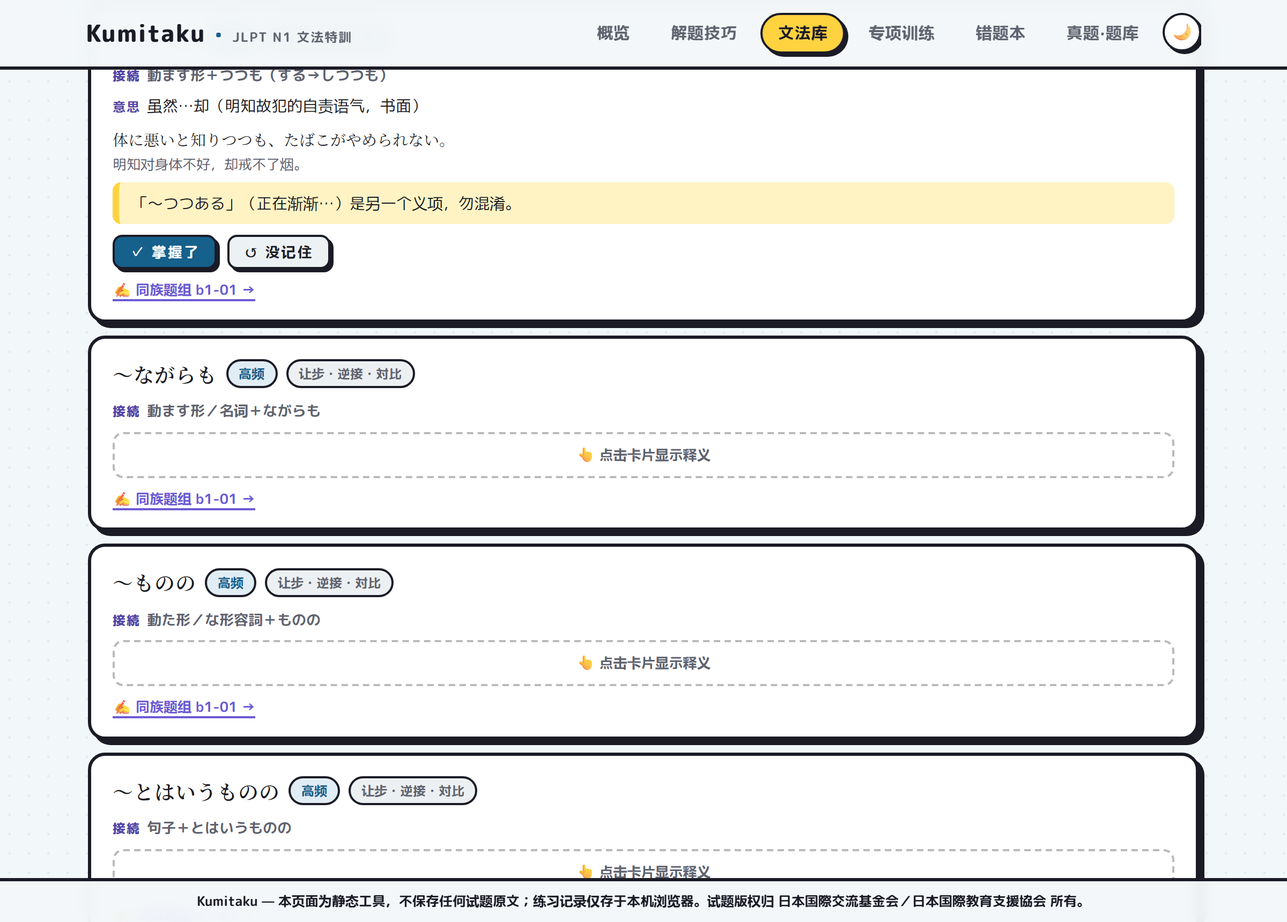
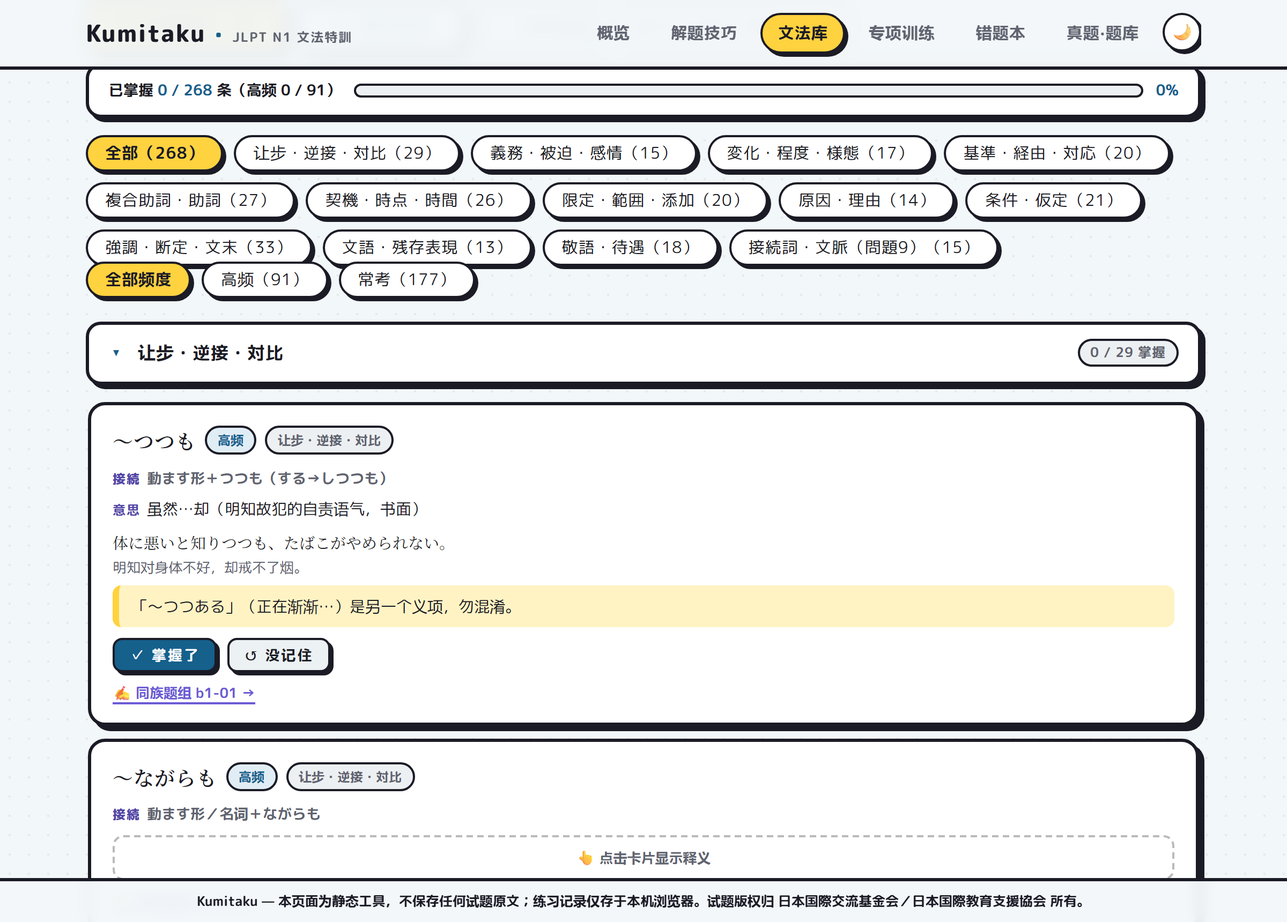
feat: 文法库扩充至 268 条——新增複合助詞・助詞（において/すら/をもって等×27）与文語残存表現（まじき/たるもの/べからず等×13）两个分类，各既有分类补全 N2 复考高频项（+63）；三层口径：N1 文型＋文語残存＋複合助詞・N2 复考高频，高频 91 条

Changed region(s): [[0.0625, 0.0616, 0.9375, 0.9244], [0.4375, 0.8936, 0.5625, 0.9552]]

diff --git a/js/bunkei.js b/js/bunkei.js
@@ -172,5 +172,108 @@ window.BUNKEI = [
 {"id":"w05","p":"一方／これに対して","cat":"bunmyaku","freq":0,"conn":"接続詞（対比）","mean":"另一方面（統合理解关键）","ex":"A案は費用が安い。一方、B案は工期が短い。","exzh":"A 方案费用低。相对地，B 方案工期短。"},
 {"id":"w06","p":"ただし／もっとも","cat":"bunmyaku","freq":0,"conn":"接続詞（附加限制）","mean":"但是…（但书、例外）","ex":"図書館は誰でも利用できる。ただし、貸出は会員に限る。","exzh":"图书馆人人可用。但外借仅限会员。"},
 {"id":"w07","p":"たしかに〜しかし","cat":"bunmyaku","freq":0,"conn":"接続詞（让步反驳）","mean":"诚然…但是（固定节奏）","ex":"たしかに彼の方法は速い。しかし、正確さでは劣る。","exzh":"诚然他的方法快。但在准确性上略逊。"},
-{"id":"w08","p":"むしろ","cat":"bunmyaku","freq":0,"conn":"副词（选択倾向）","mean":"宁可；倒不如说","ex":"彼は政治家というより、むしろ実業家だ。","exzh":"与其说他是政治家，不如说是实业家。"}
+{"id":"w08","p":"むしろ","cat":"bunmyaku","freq":0,"conn":"副词（选択倾向）","mean":"宁可；倒不如说","ex":"彼は政治家というより、むしろ実業家だ。","exzh":"与其说他是政治家，不如说是实业家。"},
+{"id":"fk01","p":"〜において(も)","cat":"fukugou","freq":1,"conn":"名词＋において","mean":"在…（场所・场合・领域，书面）","ex":"式典は東京都美術館において行われた。","exzh":"典礼在东京都美术馆举行。"},
+{"id":"fk02","p":"〜における","cat":"fukugou","freq":1,"conn":"名词＋における＋名词","mean":"在…的（书面定语）","ex":"会社における彼の評価はきわめて高い。","exzh":"他在公司里的评价极高。"},
+{"id":"fk03","p":"〜すら","cat":"fukugou","freq":1,"conn":"名词＋すら","mean":"连…都（书面，多与否定呼应）","ex":"忙しくて、食事をする時間すらなかった。","exzh":"忙得连吃饭的时间都没有。","note":"「さえ」口语兼用，「すら」更书面且多带消极语感。"},
+{"id":"fk04","p":"〜たりとも","cat":"fukugou","freq":1,"conn":"名词＋たりとも＋否定","mean":"一天（一秒）也不…","ex":"一日たりとも休んだ日はなかった。","exzh":"没有一天休息过。"},
+{"id":"fk05","p":"〜だに","cat":"fukugou","freq":0,"conn":"名词＋だに＋否定","mean":"连…都不","ex":"夢にだに思わぬ出来事だった。","exzh":"是连做梦都想不到的事。"},
+{"id":"fk06","p":"〜をもって","cat":"fukugou","freq":1,"conn":"名词＋をもって","mean":"以…（手段）；自…（时限，公告常用）","ex":"本日をもって、営業を終了いたします。","exzh":"本店自今日起停止营业。","note":"「〜をもってしても」＝即便凭借…也。"},
+{"id":"fk07","p":"〜をもってしても","cat":"fukugou","freq":0,"conn":"名词＋をもってしても","mean":"即便凭借…也（不）","ex":"彼の実力をもってしても、一人では解決できなかった。","exzh":"即便凭他的实力，一个人也解决不了。"},
+{"id":"fk08","p":"〜ところを","cat":"fukugou","freq":0,"conn":"名词／動た形＋ところを","mean":"正当…之际（致谢・免于）","ex":"お忙しいところをお集まりいただき、感謝いたします。","exzh":"感谢各位百忙之中拨冗出席。"},
+{"id":"fk09","p":"〜あっての","cat":"fukugou","freq":1,"conn":"名词１＋あっての＋名词２","mean":"有…才有…","ex":"お客あっての商売だ。","exzh":"有顾客才有生意。"},
+{"id":"fk10","p":"〜もかまわず","cat":"fukugou","freq":0,"conn":"名词＋もかまわず","mean":"不顾…","ex":"人目もかまわず、駅のベンチで寝てしまった。","exzh":"也不顾旁人目光，就在车站长椅上睡着了。"},
+{"id":"fk11","p":"〜にあって","cat":"fukugou","freq":0,"conn":"名词＋にあって","mean":"处于…（书面）","ex":"この不況下にあって、利益を伸ばした。","exzh":"身处这样的不景气之中，利润仍实现了增长。"},
+{"id":"fk12","p":"〜を顧みず","cat":"fukugou","freq":0,"conn":"名词＋を顧みず","mean":"不顾…","ex":"危険を顧みず、火の中へ飛び込んだ。","exzh":"不顾危险冲进了火海。"},
+{"id":"fk13","p":"〜に則って","cat":"fukugou","freq":0,"conn":"名词＋に則って","mean":"依照（惯例・先例）","ex":"慣例に則って、式を執り行った。","exzh":"依照惯例举行了仪式。"},
+{"id":"fk14","p":"〜に鑑み","cat":"fukugou","freq":0,"conn":"名词＋に鑑み(て)","mean":"鉴于…（公文语）","ex":"近況に鑑み、規則を一部改正する。","exzh":"鉴于近期情况，对规章作部分修订。"},
+{"id":"fk15","p":"〜いかんにかかわらず","cat":"fukugou","freq":0,"conn":"名词＋のいかんにかかわらず","mean":"不论…与否（公文语）","ex":"理由のいかんにかかわらず、遅刻は認められない。","exzh":"无论理由如何，迟到均不予认可。"},
+{"id":"fk16","p":"〜を皮切りに","cat":"fukugou","freq":1,"conn":"名词＋を皮切りに(として)","mean":"以…为开端","ex":"一枚のスケッチを皮切りに、彼は画家への道を歩んだ。","exzh":"以一幅素描为开端，他走上了画家之路。"},
+{"id":"fk17","p":"〜を経て","cat":"fukugou","freq":0,"conn":"名词＋を経て","mean":"经过…","ex":"幾多の困難を経て、ついに大橋は完成した。","exzh":"历经重重困难，大桥终于建成。"},
+{"id":"fk18","p":"〜にとって","cat":"fukugou","freq":0,"conn":"名词＋にとって","mean":"对…而言","ex":"彼にとって、この家は思い出の詰まった場所だ。","exzh":"对他而言，这个家装满了回忆。"},
+{"id":"fk19","p":"〜について","cat":"fukugou","freq":0,"conn":"名词＋について","mean":"关于…","ex":"この件について、ご意見をお聞かせください。","exzh":"关于此事，请谈谈您的意见。"},
+{"id":"fk20","p":"〜に関して","cat":"fukugou","freq":0,"conn":"名词＋に関して","mean":"有关…","ex":"新製品に関して、問い合わせが殺到している。","exzh":"有关新产品的咨询蜂拥而至。","note":"与「〜について」近义，更书面。"},
+{"id":"fk21","p":"〜にかわって","cat":"fukugou","freq":0,"conn":"名词＋にかわって","mean":"代替…；代表…","ex":"退職した部長にかわって、私が担当いたします。","exzh":"由我接替退休的部长负责此项工作。"},
+{"id":"fk22","p":"〜によると／〜によれば","cat":"fukugou","freq":0,"conn":"名词＋によると(よれば)","mean":"据…","ex":"天気予報によると、明日は晴れるそうだ。","exzh":"据天气预报，明天晴。"},
+{"id":"fk23","p":"〜のもとで(に)","cat":"fukugou","freq":0,"conn":"名词＋のもとで(に)","mean":"在…之下","ex":"先生のご指導のもとで、三年間研究を続けた。","exzh":"在老师指导下持续研究了三年。"},
+{"id":"fk24","p":"〜として(は)","cat":"fukugou","freq":0,"conn":"名词＋として(は)","mean":"作为…；就…立场而言","ex":"私としては、反対の立場を貫きたい。","exzh":"就我个人而言，想坚持反对立场。"},
+{"id":"fk25","p":"〜と相まって","cat":"fukugou","freq":0,"conn":"名词＋と(が)相まって","mean":"与…相辅相成（效果加剧）","ex":"彼の才能と幸運とが相まって、大成功を収めた。","exzh":"才能与幸运相辅相成，造就了他的巨大成功。"},
+{"id":"fk26","p":"〜に関わる","cat":"fukugou","freq":0,"conn":"名词＋に関わる","mean":"关系到…","ex":"これは会社の存続に関わる問題だ。","exzh":"这是关系到公司存亡的问题。"},
+{"id":"fk27","p":"〜を中心に","cat":"fukugou","freq":0,"conn":"名词＋を中心に(として)","mean":"以…为中心","ex":"彼を中心に、チームをまとめ上げた。","exzh":"以他为核心把队伍凝聚了起来。"},
+{"id":"bg01","p":"〜まじき","cat":"bungo","freq":1,"conn":"動辞書形＋まじき（ある→あるまじき）","mean":"与身份不相称的…（强烈谴责）","ex":"公務員が賄賂を受け取るなど、あるまじき行為だ。","exzh":"公务员收受贿赂，简直是不齿之行。"},
+{"id":"bg02","p":"〜たるもの","cat":"bungo","freq":1,"conn":"名词＋たるもの","mean":"身为…（就该…）","ex":"選手たるもの、審判の判定に口を出すべきではない。","exzh":"身为运动员，就不该对裁判的判罚说三道四。"},
+{"id":"bg03","p":"〜といえども","cat":"bungo","freq":1,"conn":"名词／句子＋といえども","mean":"即便是…也","ex":"名医といえども、死を防ぐことはできない。","exzh":"即便是名医，也无法阻止死亡。"},
+{"id":"bg04","p":"〜んがため(に)","cat":"bungo","freq":1,"conn":"動未然形＋んがため（する→せんがため）","mean":"为了…（文语目的）","ex":"優勝せんがため、日々の練習に励んできた。","exzh":"为了夺冠，一直刻苦训练。"},
+{"id":"bg05","p":"〜べし","cat":"bungo","freq":0,"conn":"動辞書形＋べし","mean":"应当…（文语）","ex":"若いうちは、多くを学ぶべし。","exzh":"趁年轻，应当多学。"},
+{"id":"bg06","p":"〜べからず","cat":"bungo","freq":0,"conn":"動辞書形＋べからず","mean":"不可…（告示文语）","ex":"芝生に立ち入るべからず。","exzh":"禁止踏入草坪。"},
+{"id":"bg07","p":"〜べく","cat":"bungo","freq":0,"conn":"動辞書形＋べく（する→すべく）","mean":"为了…（文语目的）","ex":"目標を達成すべく、全員で知恵を絞っている。","exzh":"为达成目标，全员集思广益。"},
+{"id":"bg08","p":"〜ごとく／〜ごとし","cat":"bungo","freq":0,"conn":"名词＋のごとく（ごとし）","mean":"如…一般（文语比況）","ex":"光陰矢のごとし。","exzh":"光阴似箭。"},
+{"id":"bg09","p":"〜ぬ（否定）","cat":"bungo","freq":0,"conn":"動ない形-ぬ（知らぬ・行かぬ）","mean":"不…（文语否定，残存于惯用语）","ex":"彼は知らぬ顔で通り過ぎていった。","exzh":"他装作不知道地走了过去。"},
+{"id":"bg10","p":"〜ざる（否定連体）","cat":"bungo","freq":0,"conn":"動ない形-ざる＋名词","mean":"不…的（文语定语）","ex":"それは決して許されざる行為である。","exzh":"那是决不可原谅的行为。","note":"「やむを得ざる事情」「許されざる」等惯用；「〜ざるを得ない」亦同系。"},
+{"id":"bg11","p":"〜つつ（並行）","cat":"bungo","freq":0,"conn":"動ます形＋つつ","mean":"一边…一边（文语）","ex":"彼は茶を飲みつつ、相棒の話に耳を傾けた。","exzh":"他一边喝茶一边听搭档说话。","note":"逆接义为「〜つつも」（见让步・逆接・対比分类）。"},
+{"id":"bg12","p":"〜かたがた","cat":"bungo","freq":0,"conn":"動ます形＋かたがた","mean":"顺便（兼作，郑重）","ex":"ご挨拶かたがた、新居のご紹介に伺いました。","exzh":"顺致问候，特来介绍新居。"},
+{"id":"bg13","p":"〜ながら(の)","cat":"bungo","freq":0,"conn":"名词＋ながらの","mean":"保持…原状","ex":"昔ながらの製法で味噌をつくる。","exzh":"沿用古法酿造味噌。"},
+{"id":"j22","p":"〜ともなると／〜ともなれば","cat":"joshuku","freq":1,"conn":"名词＋ともなると","mean":"一到…（程度自然伴随）","ex":"部長ともなると、そう簡単には辞められない。","exzh":"当到部长这个级别，就不是想辞就能辞的了。"},
+{"id":"j23","p":"〜くせに","cat":"joshuku","freq":0,"conn":"名词の／動た形＋くせに","mean":"明明…却（指责）","ex":"知っているくせに、知らないふりをする。","exzh":"明明知道却装作不知道。"},
+{"id":"j24","p":"〜にしろ／〜にせよ","cat":"joshuku","freq":1,"conn":"名词／句子＋にしろ(にせよ)","mean":"即便…也；无论…都","ex":"賛成するにせよ、反対するにせよ、まず内容を確認したい。","exzh":"无论赞成还是反对，都想先确认内容。","note":"「〜にしろ〜にしろ」并列＝无论 A 还是 B。"},
+{"id":"j25","p":"〜につけ〜につけ","cat":"joshuku","freq":0,"conn":"名词＋につけ…につけ","mean":"无论…还是…（都）","ex":"良いことにつけ悪いことにつけ、母のことを思い出す。","exzh":"无论顺境逆境，都会想起母亲。"},
+{"id":"j26","p":"〜といい〜といい","cat":"joshuku","freq":0,"conn":"名词＋といい…といい","mean":"无论…还是…","ex":"見た目といい味といい、文句のつけようがない。","exzh":"无论卖相还是味道，都无可挑剔。"},
+{"id":"j27","p":"〜どころの騒ぎではない","cat":"joshuku","freq":0,"conn":"名词＋どころの騒ぎではない","mean":"远非…的状态（程度严重）","ex":"この寒さでは、花見どころの騒ぎではない。","exzh":"这么冷的天，哪还谈得上赏花。"},
+{"id":"j28","p":"〜も手伝って","cat":"joshuku","freq":0,"conn":"名词＋も手伝って","mean":"加上…的影响","ex":"快晴も手伝って、野外コンサートは大盛況だった。","exzh":"加上天公作美，户外音乐会盛况空前。"},
+{"id":"j29","p":"〜といっても","cat":"joshuku","freq":0,"conn":"句子＋といっても","mean":"虽说…（程度大打折扣）","ex":"日本語ができるといっても、挨拶程度だ。","exzh":"虽说会日语，也就会个寒暄。"},
+{"id":"k14","p":"〜に伴って","cat":"kijun","freq":0,"conn":"名词／動辞書形＋に伴って","mean":"随着…；伴随…","ex":"経済成長に伴って、生活水準も上がった。","exzh":"随着经济增长，生活水平也提高了。"},
+{"id":"k15","p":"〜につれて","cat":"kijun","freq":0,"conn":"動辞書形／名词＋につれて","mean":"随着（自然联动）","ex":"時間がたつにつれて、悲しみは薄らいでいった。","exzh":"随着时间流逝，悲伤渐渐淡去。"},
+{"id":"k16","p":"〜にしたがって","cat":"kijun","freq":0,"conn":"動辞書形／名词＋にしたがって","mean":"随着；遵照","ex":"高くなるにしたがって、気圧は下がる。","exzh":"海拔越高，气压越低。","note":"「指示にしたがって」＝遵从（跟随）义。"},
+{"id":"k17","p":"〜とともに","cat":"kijun","freq":0,"conn":"名词／動辞書形＋とともに","mean":"与…同时；随着…","ex":"年をとるとともに、体力が落ちてきた。","exzh":"随着年龄增长，体力也下降了。"},
+{"id":"k18","p":"〜と同時に","cat":"kijun","freq":0,"conn":"動辞書形＋と同時に","mean":"…的同时","ex":"ドアが開くと同時に、観客がなだれ込んだ。","exzh":"门一开，观众蜂拥而入。"},
+{"id":"k19","p":"〜に比べて","cat":"kijun","freq":0,"conn":"名词＋に比べて","mean":"与…相比","ex":"都会に比べて、地方は物価が安い。","exzh":"与大城市相比，地方物价便宜。"},
+{"id":"k20","p":"〜に加えて","cat":"kijun","freq":0,"conn":"名词＋に加えて","mean":"加之…","ex":"経験に加えて語学力もある彼が、最適任だ。","exzh":"他除了经验还有语言能力，是最佳人选。"},
+{"id":"t20","p":"〜うちに","cat":"keiki","freq":0,"conn":"名词の／動辞書形＋うちに","mean":"趁着…；在…期间","ex":"熱いうちに召し上がってください。","exzh":"请趁热吃。"},
+{"id":"t21","p":"〜たびに","cat":"keiki","freq":0,"conn":"動辞書形／た形＋たびに","mean":"每当…就","ex":"この曲を聞くたびに、学生時代を思い出す。","exzh":"每当听到这首歌，就会想起学生时代。"},
+{"id":"t22","p":"〜てからというもの","cat":"keiki","freq":1,"conn":"動て形＋からというもの","mean":"自从…之后（一直）","ex":"彼は退職してからというもの、毎朝釣りに出かけている。","exzh":"自从退休后，他每天早上都去钓鱼。"},
+{"id":"t23","p":"〜に先立って","cat":"keiki","freq":0,"conn":"名词／動辞書形＋に先立って","mean":"在…之前","ex":"公演に先立って、記者発表が行われた。","exzh":"演出之前举行了记者会。"},
+{"id":"t24","p":"〜という次第だ","cat":"keiki","freq":0,"conn":"句子＋という次第だ","mean":"情况就是这样（说明缘由收尾）","ex":"祖母が倒れた、という次第で、本日は帰省しております。","exzh":"情况是祖母病倒了，所以我今天回乡了。"},
+{"id":"t25","p":"〜矢先に","cat":"keiki","freq":0,"conn":"動た形＋矢先に","mean":"正要…时","ex":"出かけようとした矢先に、電話が鳴った。","exzh":"正要出门时，电话响了。"},
+{"id":"t26","p":"〜っきり","cat":"keiki","freq":0,"conn":"動た形／名词＋っきり","mean":"自…之后（再无）；只…","ex":"彼女とは別れたきり、一度も会っていない。","exzh":"和她分开之后就再没见过。"},
+{"id":"x19","p":"〜はともあれ","cat":"gentei","freq":0,"conn":"名词＋はともあれ","mean":"无论如何；姑且不论","ex":"理由はともあれ、遅刻した事実は変わらない。","exzh":"理由姑且不论，迟到的事实不变。","note":"与「〜はともかく」近义。"},
+{"id":"x20","p":"〜は別として","cat":"gentei","freq":0,"conn":"名词＋は別として","mean":"…另当别论","ex":"冗談は別として、真剣に考えよう。","exzh":"玩笑归玩笑，认真想想吧。"},
+{"id":"y12","p":"〜もあって","cat":"inka","freq":0,"conn":"名词／句子＋もあって","mean":"也因为…","ex":"週末ということもあって、店は大混雑だった。","exzh":"也因为赶上周末，店里人满为患。"},
+{"id":"y13","p":"〜ときたら","cat":"inka","freq":0,"conn":"名词＋ときたら","mean":"说起…（抱怨对象）","ex":"隣の犬ときたら、昼夜鳴いてうるさい。","exzh":"说到隔壁的狗，昼夜狂吠吵死了。"},
+{"id":"y14","p":"〜ばこそ","cat":"inka","freq":1,"conn":"ば形＋こそ","mean":"正因为…才","ex":"君のことを思えばこそ、厳しいことを言うのだ。","exzh":"正因为为你着想，才说这些重话。"},
+{"id":"c13","p":"〜さえ〜ば","cat":"jouken","freq":1,"conn":"名词＋さえ＋ば形","mean":"只要…就","ex":"薬を飲みさえすれば、すぐに治る。","exzh":"只要吃药，很快就会好。"},
+{"id":"c14","p":"〜ば〜ほど","cat":"jouken","freq":0,"conn":"ば形＋動辞書形＋ほど","mean":"越…越…","ex":"考えれば考えるほど、分からなくなる。","exzh":"越想越糊涂。"},
+{"id":"c15","p":"〜たら最後","cat":"jouken","freq":0,"conn":"動た形＋たら最後","mean":"一旦…就（不可挽回）","ex":"彼は一度寝たら最後、雷が鳴っても起きない。","exzh":"他一旦睡着，打雷都叫不醒。","note":"「〜たが最後」（见契機・時点分类）同义。"},
+{"id":"c16","p":"〜(よ)うにも〜ない","cat":"jouken","freq":1,"conn":"動意志形＋にも＋可能动词否定","mean":"想…也不能…","ex":"眠ろうにも眠れない。","exzh":"想睡也睡不着。"},
+{"id":"c17","p":"〜ばそれまでだ","cat":"jouken","freq":0,"conn":"動た形＋ばそれまでだ","mean":"一旦…就全完了","ex":"どんな名品も、壊れてしまえばそれまでだ。","exzh":"再好的东西，坏了就完了。"},
+{"id":"c18","p":"〜ようでは","cat":"jouken","freq":0,"conn":"動辞書形＋ようでは","mean":"照…这样下去（消极预判）","ex":"毎日遊んでいるようでは、合格は夢だ。","exzh":"照这样天天玩，合格无望。"},
+{"id":"c19","p":"〜であれ〜であれ","cat":"jouken","freq":0,"conn":"名词＋であれ…であれ","mean":"无论…还是…","ex":"賛成であれ反対であれ、まず意見を述べるべきだ。","exzh":"无论赞成反对，都应先陈述意见。"},
+{"id":"c20","p":"〜べきだ／〜べきではない","cat":"jouken","freq":0,"conn":"動辞書形＋べきだ（する→すべき）","mean":"应该…／不该…（社会规范）","ex":"約束は守るべきだ。人の私生活に干渉すべきではない。","exzh":"应当遵守约定。不该干涉他人私生活。"},
+{"id":"c21","p":"〜ならまだしも","cat":"jouken","freq":0,"conn":"名词／動辞書形＋ならまだしも","mean":"如果是…倒还罢了","ex":"子どもならまだしも、社会人として許されない。","exzh":"要是孩子倒还罢了，作为社会人不可原谅。"},
+{"id":"m21","p":"〜に足る","cat":"kyouchou","freq":0,"conn":"動辞書形／名词＋に足る","mean":"值得…","ex":"彼は信頼に足る人物だ。","exzh":"他是值得信赖的人。","note":"否定「〜に足らない」＝不足以…。"},
+{"id":"m22","p":"〜に耐えない（評価）","cat":"kyouchou","freq":0,"conn":"動辞書形／名词＋に耐えない","mean":"不堪…（评估义：不值一…）","ex":"あの映画は、鑑賞に耐えない出来だった。","exzh":"那部电影烂得不值一看。","note":"情感义「悲しみに堪えない」见義務・被迫・感情分类，注意区分。"},
+{"id":"m23","p":"〜に違いない","cat":"kyouchou","freq":0,"conn":"句子＋に違いない","mean":"一定是…","ex":"電気がついている。彼は家にいるに違いない。","exzh":"灯亮着，他一定在家。"},
+{"id":"m24","p":"〜に相違ない","cat":"kyouchou","freq":0,"conn":"句子＋に相違ない","mean":"必是…（书面断定）","ex":"これは本物に相違ない。","exzh":"这必是真品。"},
+{"id":"m25","p":"〜じゃないか／〜ではないか","cat":"kyouchou","freq":0,"conn":"句子＋じゃないか","mean":"不正是…嘛（反问・惊叹）","ex":"なかなか上手じゃないか。","exzh":"挺不错的嘛。"},
+{"id":"m26","p":"〜わけだ","cat":"kyouchou","freq":0,"conn":"句子＋わけだ","mean":"难怪；也就是说（合情合理地归结）","ex":"十年も住んでいたのか。道に詳しいわけだ。","exzh":"住了十年啊，难怪对路况那么熟。"},
+{"id":"m27","p":"〜ものがある","cat":"kyouchou","freq":1,"conn":"動辞書形／な形容词＋ものがある","mean":"确有…之处（由衷感叹）","ex":"彼の演奏には人を引きつけるものがある。","exzh":"他的演奏确有一种吸引人的力量。"},
+{"id":"m28","p":"〜ところだった","cat":"kyouchou","freq":0,"conn":"動辞書形＋ところだった","mean":"差点…","ex":"運転中に居眠りして、危なく衝突するところだった。","exzh":"开车时打了个盹，差点撞上。"},
+{"id":"m29","p":"〜しかない","cat":"kyouchou","freq":0,"conn":"動辞書形＋しかない","mean":"只能…","ex":"終電がなくなって、タクシーで帰るしかなかった。","exzh":"末班车没了，只能打车回家。"},
+{"id":"m30","p":"〜ことか","cat":"kyouchou","freq":0,"conn":"疑问词＋ことか","mean":"多么…啊","ex":"どんなに悔しかったことか。","exzh":"当时是多么懊悔啊。"},
+{"id":"m31","p":"〜とは","cat":"kyouchou","freq":0,"conn":"句子＋とは","mean":"竟然…（惊愕，句尾省略）","ex":"十年前の機械が新品同様とは。","exzh":"十年前的机器竟像新的一样。"},
+{"id":"m32","p":"〜かのように","cat":"kyouchou","freq":0,"conn":"動辞書形／た形＋かのように","mean":"仿佛…一般","ex":"何もなかったかのように振る舞った。","exzh":"表现得仿佛什么都没发生过。"},
+{"id":"m33","p":"〜はずだ／〜はずがない","cat":"kyouchou","freq":0,"conn":"句子＋はずだ（ない）","mean":"理应…；不可能…","ex":"注文したのは先週だから、そろそろ届くはずだ。","exzh":"上周订的货，差不多该到了。"},
+{"id":"d12","p":"〜ていただく","cat":"taiguu","freq":0,"conn":"動て形＋いただく","mean":"谦让语：承蒙对方（为我）做…","ex":"先生にわかりやすく解説していただいた。","exzh":"请老师做了通俗易懂的讲解。"},
+{"id":"d13","p":"〜てくださる","cat":"taiguu","freq":0,"conn":"動て形＋くださる","mean":"尊敬语：对方为我（方）做…","ex":"課長が丁寧に説明してくださった。","exzh":"科长细心地为我们做了说明。"},
+{"id":"d14","p":"いらっしゃる／おいでになる","cat":"taiguu","freq":0,"conn":"惯用（行く・来る・いる的尊敬语）","mean":"尊敬语：来・去・在","ex":"先生は教室においでになった。","exzh":"老师来到了教室。"},
+{"id":"d15","p":"〜でございます","cat":"taiguu","freq":0,"conn":"です・である的郑重语","mean":"郑重语：是…","ex":"受付は二階でございます。","exzh":"接待处设在二楼。"},
+{"id":"d16","p":"〜ておる","cat":"taiguu","freq":0,"conn":"動て形＋おる（ている的谦让）","mean":"谦让语：正在…","ex":"私は毎日、店番をしております。","exzh":"我每天看店。"},
+{"id":"d17","p":"承る","cat":"taiguu","freq":0,"conn":"惯用（聞く・受ける的谦让语）","mean":"谦让语：恭听・接受","ex":"ご意見は喜んで承ります。","exzh":"恭听您的意见。"},
+{"id":"d18","p":"存じる／存じ上げる","cat":"taiguu","freq":0,"conn":"惯用（知っている的谦让语）","mean":"谦让语：知道（仰慕地）","ex":"お名前はかねてより存じ上げております。","exzh":"久仰大名。"},
+{"id":"w09","p":"すると","cat":"bunmyaku","freq":0,"conn":"接続詞（承接）","mean":"于是（前句动作引发新发现）","ex":"鍵を回した。すると、扉が静かに開いた。","exzh":"转动钥匙。于是门静静地开了。"},
+{"id":"w10","p":"ところが","cat":"bunmyaku","freq":0,"conn":"接続詞（意外逆接）","mean":"可是（结果出乎意料）","ex":"必ず来ると言っていた。ところが、来なかった。","exzh":"说好一定来。可是没来。"},
+{"id":"w11","p":"それでも","cat":"bunmyaku","freq":0,"conn":"接続詞（让步）","mean":"即便如此","ex":"値上げが続いた。それでも、客足は減らなかった。","exzh":"涨价接连不断。即便如此客流也未减。"},
+{"id":"w12","p":"それにしては","cat":"bunmyaku","freq":0,"conn":"接続詞（预期落差）","mean":"就…而言却","ex":"十年住んでいる。それにしては、方言が下手だ。","exzh":"住了十年，可方言却说得不好。"},
+{"id":"w13","p":"その結果","cat":"bunmyaku","freq":0,"conn":"接続詞（结果）","mean":"结果…","ex":"値下げを実施した。その結果、売上は三割増えた。","exzh":"实施了降价。结果销售额增长三成。"},
+{"id":"w14","p":"言い換えれば","cat":"bunmyaku","freq":0,"conn":"接続詞（换述）","mean":"换言之","ex":"彼は、言い換えれば「会社に生きる」人生を選んだのだ。","exzh":"换言之，他选择了「为公司而活」的人生。"},
+{"id":"w15","p":"そもそも","cat":"bunmyaku","freq":0,"conn":"副词（追根溯源）","mean":"说到底；原本","ex":"そもそも、この計画自体に無理があった。","exzh":"说到底，这个计划本身就不现实。"}
 ];

diff --git a/index.html b/index.html
@@ -243,7 +243,7 @@
   <section class="page" id="page-bunkei">
     <p class="eyebrow">Pattern Library</p>
     <h1 class="page-title">N1 文法库 · 背诵</h1>
-    <p class="page-desc">先说实话：JLPT 官方只公布各大题的测试目标，<b>从不公布文法清单</b>。本库按主流备考体系（『新完全マスター文法』等）公认的 N1 文法目录整理、对照官方出题目标，共 <span id="bn-total"></span> 条，覆盖問題7〜9 的全部考查面；标「高频」的是历年公开真题最常考的一批。例文均为本站原创。背诵进度只保存在你的浏览器里。</p>
+    <p class="page-desc">先说实话：JLPT 官方只公布各大题的测试目标，<b>从不公布文法清单</b>。本库按主流备考体系（『新完全マスター文法』『日本語表現文型500』等）公认的 N1 目录整理、对照官方出题目标，共 <span id="bn-total"></span> 条，分三层覆盖問題7〜9 的考查面：N1 文型、文語残存表現（〜まじき・〜べからず・〜たるもの等），以及問題7 选项里高频复考的 N2 以下文法（〜において・〜すら・〜をもって等助词系）；标「高频」的是历年公开真题最常考的核心。例文均为本站原创。背诵进度只保存在你的浏览器里。</p>
     <div class="filterbar" style="margin-bottom:10px">
       <button class="btn" id="bn-recite" type="button">🗣 背诵模式：关</button>
       <button class="btn ghost" id="bn-random" type="button">🎲 随机抽背</button>
@@ -509,8 +509,8 @@
 <script defer src="js/bank/bun1.js?v=25950f51"></script>
 <script defer src="js/bank/kumi.js?v=811ca181"></script>
 <script defer src="js/bank/sho.js?v=640795ac"></script>
-<script defer src="js/bunkei.js?v=141217c5"></script>
-<script defer src="js/app.js?v=700b1bc3"></script>
+<script defer src="js/bunkei.js?v=56ddd3cf"></script>
+<script defer src="js/app.js?v=a0ff29d5"></script>
 <script>
 /* PWA：注册 Service Worker（file:// 直接打开时自动跳过） */
 if ('serviceWorker' in navigator && (location.protocol === 'https:' || location.hostname === '127.0.0.1' || location.hostname === 'localhost')) {

diff --git a/js/app.js b/js/app.js
@@ -470,9 +470,11 @@
   var BN_CATS = [
     { key: 'joshuku', name: '让步・逆接・対比' }, { key: 'gimu', name: '義務・被迫・感情' },
     { key: 'henka', name: '変化・程度・様態' }, { key: 'kijun', name: '基準・経由・対応' },
+    { key: 'fukugou', name: '複合助詞・助詞' },
     { key: 'keiki', name: '契機・時点・時間' }, { key: 'gentei', name: '限定・範囲・添加' },
     { key: 'inka', name: '原因・理由' }, { key: 'jouken', name: '条件・仮定' },
-    { key: 'kyouchou', name: '強調・断定・文末' }, { key: 'taiguu', name: '敬語・待遇' },
+    { key: 'kyouchou', name: '強調・断定・文末' }, { key: 'bungo', name: '文語・残存表現' },
+    { key: 'taiguu', name: '敬語・待遇' },
     { key: 'bunmyaku', name: '接続詞・文脈（問題9）' }
   ];
   var bnCat = 'all', bnFreq = 'all', bnQuery = '', bnRecite = false, bnHide = false;

diff --git a/sw.js b/sw.js
@@ -5,8 +5,8 @@
    CACHE 缓存名由 scripts/version.mjs 改写：该脚本同时把「index.html 资产指纹」写入本文件
    的 ASSETS 行并参与缓存名哈希——任何分片/样式/脚本更新都会换缓存名，旧缓存随 activate
    全量清理（否则旧 ?v= 条目会在同一缓存里永久累积） */
-var CACHE = 'kumitaku-3bd30f98';
-var ASSETS = 'f166a24a'; // scripts/version.mjs 写入 index.html 的资产指纹（参与 CACHE 哈希）
+var CACHE = 'kumitaku-adbc0a97';
+var ASSETS = 'e2759418'; // scripts/version.mjs 写入 index.html 的资产指纹（参与 CACHE 哈希）
 /* 预缓存强制与服务器核对（no-cache），避免安装时拿到浏览器 HTTP 缓存里的旧页面。
    注意用 ./ 相对路径：GitHub Pages 部署在 /jlpt-n1-Kumitaku/ 子路径下 */
 var PRECACHE = ['./', './index.html', './manifest.webmanifest', './public/logo.svg'].map(function (u) {

diff --git a/README.md b/README.md
@@ -40,7 +40,7 @@
 
 - 🧭 **Organized by official question types**: mapped against the JLPT official《大題的測試目標》, it covers all three grammar sections — 問題7 文の文法1 (grammar-form judgement), 問題8 文の文法2 (sentence assembly / 統整文), 問題9 文の文法3 (discourse grammar)
 - ⚡ **Quick tactic library**: three-line elimination (接続 connection · 呼応 co-occurrence · 语气 register), a 28-pattern quick reference grouped by near-synonym families, a seven-category trap checklist, and a 110-minute time budget
-- 🗂 **Pattern library with recite mode (文法库)**: all 165 N1 grammar patterns — the full inventory commonly accepted by mainstream prep systems — each with its connection rule, meaning, an original example sentence with translation, near-synonym notes, and a high-frequency flag (73 exam hot list); **recite mode** hides the meaning until you click, marks patterns as mastered with localStorage progress, offers random pick-drilling, and links every pattern to its same-family drill set
+- 🗂 **Pattern library with recite mode (文法库)**: 268 entries covering the full N1 surface — N1 patterns, literary relics (〜まじき・〜べからず), and the compound particles / N2-carryover forms that keep reappearing in 問題7 options — each with its connection rule, meaning, an original example sentence with translation, near-synonym notes, and a high-frequency flag (91 exam hot list); **recite mode** hides the meaning until you click, marks patterns as mastered with localStorage progress, offers random pick-drilling, and links every pattern to its same-family drill set
 - ⏱ **Timed practice**: each set carries a per-question time budget with a real-time timer; overtime is flagged in red, reproducing exam pacing
 - 🔍 **Per-option explanations**: every distractor is labelled with its trap type (接続不合 / 近義混同 / 呼応衝突 / 時態錯位 / 文体不合 / 語序違反 / 文脈断裂) and the key explains the pattern's connection, co-occurrence and register — not just an answer key
 - 🔁 **Mistake-notebook loop**: wrong answers are collected automatically; correct answers push items down the 1→3→7-day spaced-repetition schedule until they graduate; a weak-point profile links straight into targeted drills
@@ -98,7 +98,7 @@ JLPT past papers are copyrighted by Japan Foundation / JEES and commercial prep 
 ├── index.html               # single-page app (5 hash-routed sections)
 ├── css/style.css            # indigo manga-washi theme (light/dark)
 ├── js/app.js                # all interaction logic (no framework, file:// friendly)
-├── js/bunkei.js             # pattern library data (165 patterns, high-freq flags)
+├── js/bunkei.js             # pattern library data (268 patterns, 13 categories)
 ├── js/bank/                 # built-in question bank shards (pure data)
 │   ├── core.js              #   shared header + window.BANK
 │   ├── bun1.js              #   問題7 形式判断 ×12 sets / 60 items

diff --git a/README.ja-JP.md b/README.ja-JP.md
@@ -40,7 +40,7 @@
 
 - 🧭 **公式の大題構成に対応**：問題7 文の文法1（文法形式の判断）／問題8 文の文法2（文の組み立て·統整文）／問題9 文の文法3（文章の文法）をすべてカバー
 - ⚡ **速攻テクニック集**：「接続・呼応・语气（ニュアンス）」の三線チェック、類義グループ別の高頻度文法速見表 28 項、誤り選択肢 7 分類チェックリスト、110 分の時間配分表
-- 🗂 **文法ライブラリ＋暗記モード**：主流教材で公認の N1 文法を網羅した **165 項**（公式は文法リストを公表しないため、公式のテスト目標に照らして整理）。各項に接続・意味・オリジナル例文＋訳・類義辨析を付け、**高頻度 73 項**をフラグ表示。暗記モードは意味を隠してクリックで揭示、「✓ 理解」の進捗を保存、ランダム出題、各項から同族ドリルへ直行
+- 🗂 **文法ライブラリ＋暗記モード**：主流教材で公認の N1 文法を網羅した **268 項**（公式は文法リストを公表しないため、公式のテスト目標に照らして整理。N1 文型＋文語残存＋問題7 で再頻出する複合助詞・N2 文法の三層）。各項に接続・意味・オリジナル例文＋訳・類義辨析を付け、**高頻度 91 項**をフラグ表示。暗記モードは意味を隠してクリックで揭示、「✓ 理解」の進捗を保存、ランダム出題、各項から同族ドリルへ直行
 - ⏱ **計測つき演習**：各セットに時間目標とリアルタイムタイマー、超過は赤表示
 - 🔍 **選択肢ごとの解説**：誤り選択肢には【接続不合】【近義混同】【呼応衝突】【時制不一致】【文体不合】【語序違反】【文脈断裂】のラベル、正解には接続・呼応・ニュアンスの三点説明
 - 🔁 **間違いノート**：間違えた問題は自動収録、1→3→7 日の間隔反復で三回連続正解で卒業。弱点プロフィールから直接その考点の演習へ飛べる
@@ -98,7 +98,7 @@
 ├── index.html               # シングルページアプリ（5 ハッシュルート）
 ├── css/style.css            # 藍色マンガ和紙テーマ（ライト／ダーク）
 ├── js/app.js                # 全インタラクション（依存ゼロ、file:// 対応）
-├── js/bunkei.js             # 文法ライブラリデータ（165 項・高頻度フラグ付き）
+├── js/bunkei.js             # 文法ライブラリデータ（268 項・13 カテゴリ）
 ├── js/bank/                 # 内蔵バンク分片（純データ）
 │   ├── core.js              #   共通ヘッダ + window.BANK
 │   ├── bun1.js              #   問題7 形式判断 ×26 セット / 132 問
